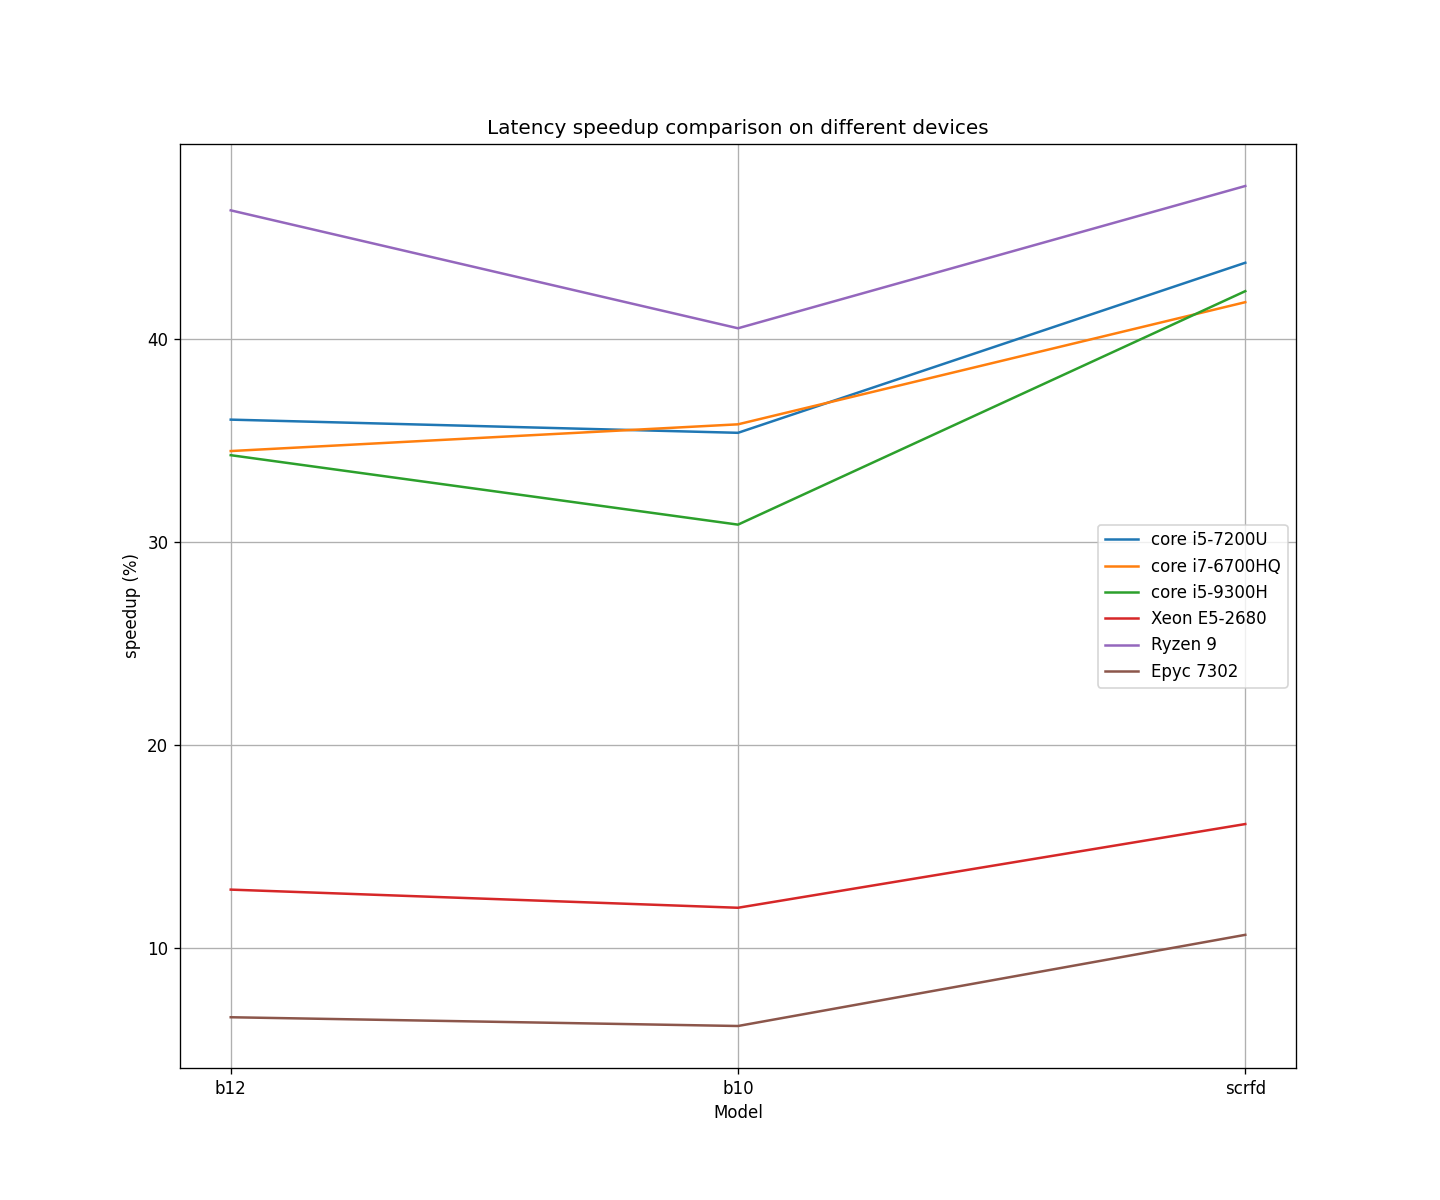
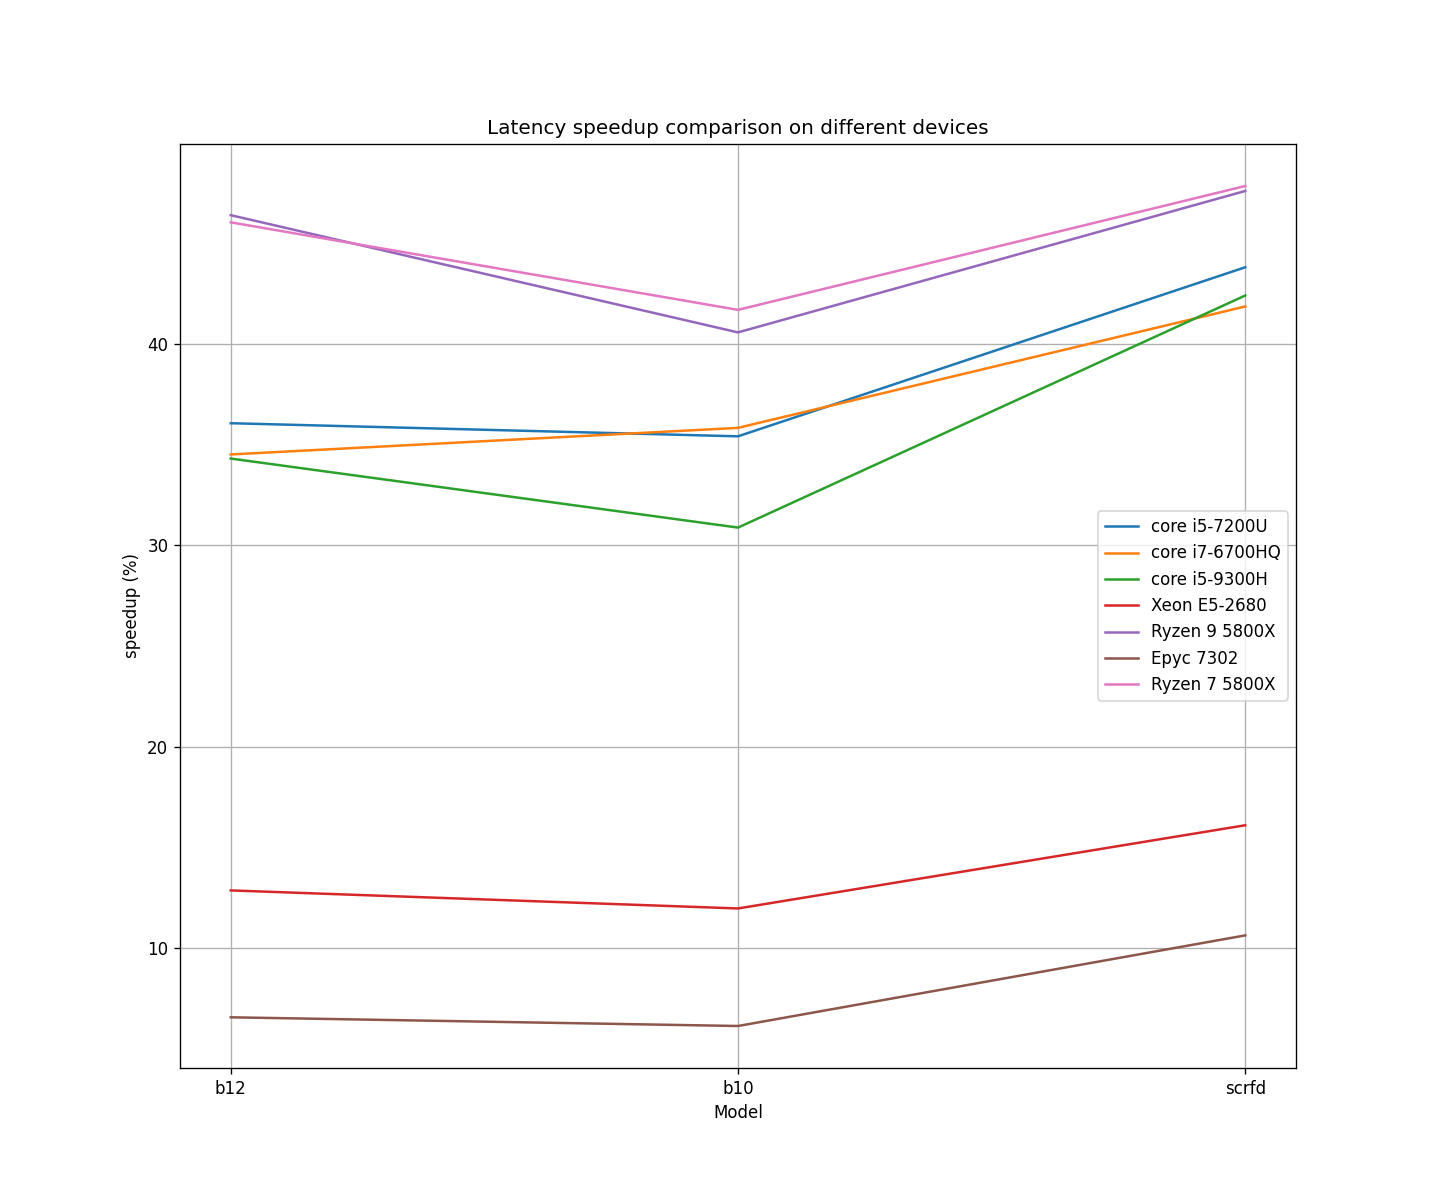
Ryzen 7 results added

diff --git a/utils/results.py b/utils/results.py
@@ -33,7 +33,7 @@ raw_results = [{"name": "core i5-7200U", "results":
                 "scrfd-quan": [13.78, 72.46]
                 }
                },
-               {"name": "Ryzen 9", "results": 
+               {"name": "Ryzen 9 5800X", "results": 
                 {"b12": [9.23, 108.27],
                 "b12-quan": [17.20, 58.07],
                 "b10": [27.24, 36.67],
@@ -49,5 +49,14 @@ raw_results = [{"name": "core i5-7200U", "results":
                 "b10-quan": [19.41, 51.45],
                 "scrfd": [12.81, 77.99],
                 "scrfd-quan": [14.33, 69.69]
+                }
+               },
+               {"name": "Ryzen 7 5800X", "results": 
+                {"b12": [9.42, 106.15],
+                "b12-quan": [17.44, 57.31],
+                "b10": [26.39, 37.87],
+                "b10-quan": [45.23, 22.09],
+                "scrfd": [18.77, 53.25],
+                "scrfd-quan": [35.96, 27.79]
                 }
                }]

diff --git a/utils/benchmarkPlotter.py b/utils/benchmarkPlotter.py
@@ -66,6 +66,7 @@ def main():
         print(f"Plotting FPS speed up for device {device_name}")
         fps_speedup = [ (results[i].getFPS(model_name+"-quan") - results[i].getFPS(model_name)) / results[i].getFPS(model_name) * 100 
                         for model_name in model_names]
+        print(fps_speedup)
         plt.plot(model_names, fps_speedup, label=device_name)
     plt.xlabel("Model")
     plt.ylabel("speedup (%)")
@@ -82,6 +83,7 @@ def main():
         print(f"Plotting Latency speed up for device {device_name}")
         latency_speedup = [ -(results[i].getLatency(model_name+"-quan") - results[i].getLatency(model_name)) / results[i].getLatency(model_name) * 100 
                         for model_name in model_names]
+        print(latency_speedup)
         plt.plot(model_names, latency_speedup, label=device_name)
     plt.xlabel("Model")
     plt.ylabel("speedup (%)")

diff --git a/docs/timing-benchmark.md b/docs/timing-benchmark.md
@@ -11,6 +11,7 @@ The following table shows important CPU features of each system:
 |Xeon E5-2680 v4 @ 2.40GHz|SSE4_2<br>AVX2|213.233.161.119|
 |Ryzen 9 5800X|SSE4_2<br>AVX2| 213.233.181.171 |
 |Epyc 7302 | SSE4_1<br>SSE4a<br>AVX2 | 213.233.181.155 |
+|Ryzen 7 5800X|SSE4_2<br>SSE4a<br>AVX2| 213.233.181.170 |
 
 <br>
 
@@ -26,8 +27,11 @@ The following table shows important CPU features of each system:
             <th colspan=2><center>Server<br>(Xeon E5-2680 v4 @ 2.40GHz)</center></th>
 			<th colspan=2><center>Server<br>(Ryzen 9 5800X)</center></th>
 			<th colspan=2><center>Server<br>(Epyc 7302)</center></th>
+			<th colspan=2><center>Server<br>(Ryzen 7 5800X)</center></th>
         </tr>
 		<tr>
+			<th><center>FPS<br>(avg)</center></th>
+			<th><center>Latency<br>(ms)</center></th>
 			<th><center>FPS<br>(avg)</center></th>
 			<th><center>Latency<br>(ms)</center></th>
 			<th><center>FPS<br>(avg)</center></th>
@@ -57,6 +61,8 @@ The following table shows important CPU features of each system:
 			<td> 108.27 </td>
 			<td> 6.50 </td>
 			<td> 153.67 </td>
+			<td> 9.42 </td>
+			<td> 106.15 </td>
 		</tr>
 		<tr>
 			<td> b12-quan </td>
@@ -72,6 +78,8 @@ The following table shows important CPU features of each system:
 			<td> 58.07 </td>
 			<td> 6.96 </td>
 			<td> 143.56 </td>
+			<td> 17.44 </td>
+			<td> 57.31 </td>
 		</tr>
 		<tr>
 			<td> b10 </td>
@@ -87,6 +95,8 @@ The following table shows important CPU features of each system:
 			<td> 36.67 </td>
 			<td> 18.22 </td>
 			<td> 54.82 </td>
+			<td> 26.39 </td>
+			<td> 37.87 </td>
 		</tr>
 		<tr>
 			<td> b10-quan </td>
@@ -102,6 +112,8 @@ The following table shows important CPU features of each system:
 			<td> 21.80 </td>
 			<td> 19.41 </td>
 			<td> 51.45 </td>
+			<td> 45.23 </td>
+			<td> 22.09 </td>
 		</tr>
 		<tr>
 			<td> scrfd_10g_bnkps </td>
@@ -117,6 +129,8 @@ The following table shows important CPU features of each system:
 			<td> 52.18 </td>
 			<td> 12.81 </td>
 			<td> 77.99 </td>
+			<td> 18.77 </td>
+			<td> 53.25 </td>
 		</tr>
 		<tr>
 			<td> scrfd_10g_bnkps-quan </td>
@@ -132,6 +146,8 @@ The following table shows important CPU features of each system:
 			<td> 27.36 </td>
 			<td> 14.33 </td>
 			<td> 69.69 </td>
+			<td> 35.96 </td>
+			<td> 27.79 </td>
 		</tr>
     </tbody>
 </table>
@@ -148,8 +164,11 @@ The following table shows the FPS and latency improvement value for each model o
             <th colspan=2><center>Server<br>(Xeon E5-2680 v4 @ 2.40GHz)</center></th>
 			<th colspan=2><center>Server<br>(Ryzen 9 5800X)</center></th>
 			<th colspan=2><center>Server<br>(Epyc 7302)</center></th>
+			<th colspan=2><center>Server<br>(Ryzen 7 5800X)</center></th>
         </tr>
 		<tr>
+			<th><center>FPS <br> improvement</center></th>
+			<th><center>Latency <br> improvement</center></th>
 			<th><center>FPS <br> improvement</center></th>
 			<th><center>Latency <br> improvement</center></th>
 			<th><center>FPS <br> improvement</center></th>
@@ -179,6 +198,8 @@ The following table shows the FPS and latency improvement value for each model o
 			<td> 46.36% </td>
 			<td> 7.08% </td>
 			<td> 6.57% </td>
+			<td> 85.14% </td>
+			<td> 46.01% </td>
 		</tr>
 		<tr>
 			<td> b10 </td>
@@ -194,6 +215,8 @@ The following table shows the FPS and latency improvement value for each model o
 			<td> 40.55% </td>
 			<td> 6.53% </td>
 			<td> 6.15% </td>
+			<td> 71.4% </td>
+			<td> 41.67% </td>
 		</tr>
 		<tr>
 			<td> scrfd_10g_bnkps </td>
@@ -209,6 +232,8 @@ The following table shows the FPS and latency improvement value for each model o
 			<td> 47.57% </td>
 			<td> 11.86% </td>
 			<td> 10.64% </td>
+			<td> 91.58% </td>
+			<td> 47.81% </td>
 		</tr>
     </tbody>
 </table>
